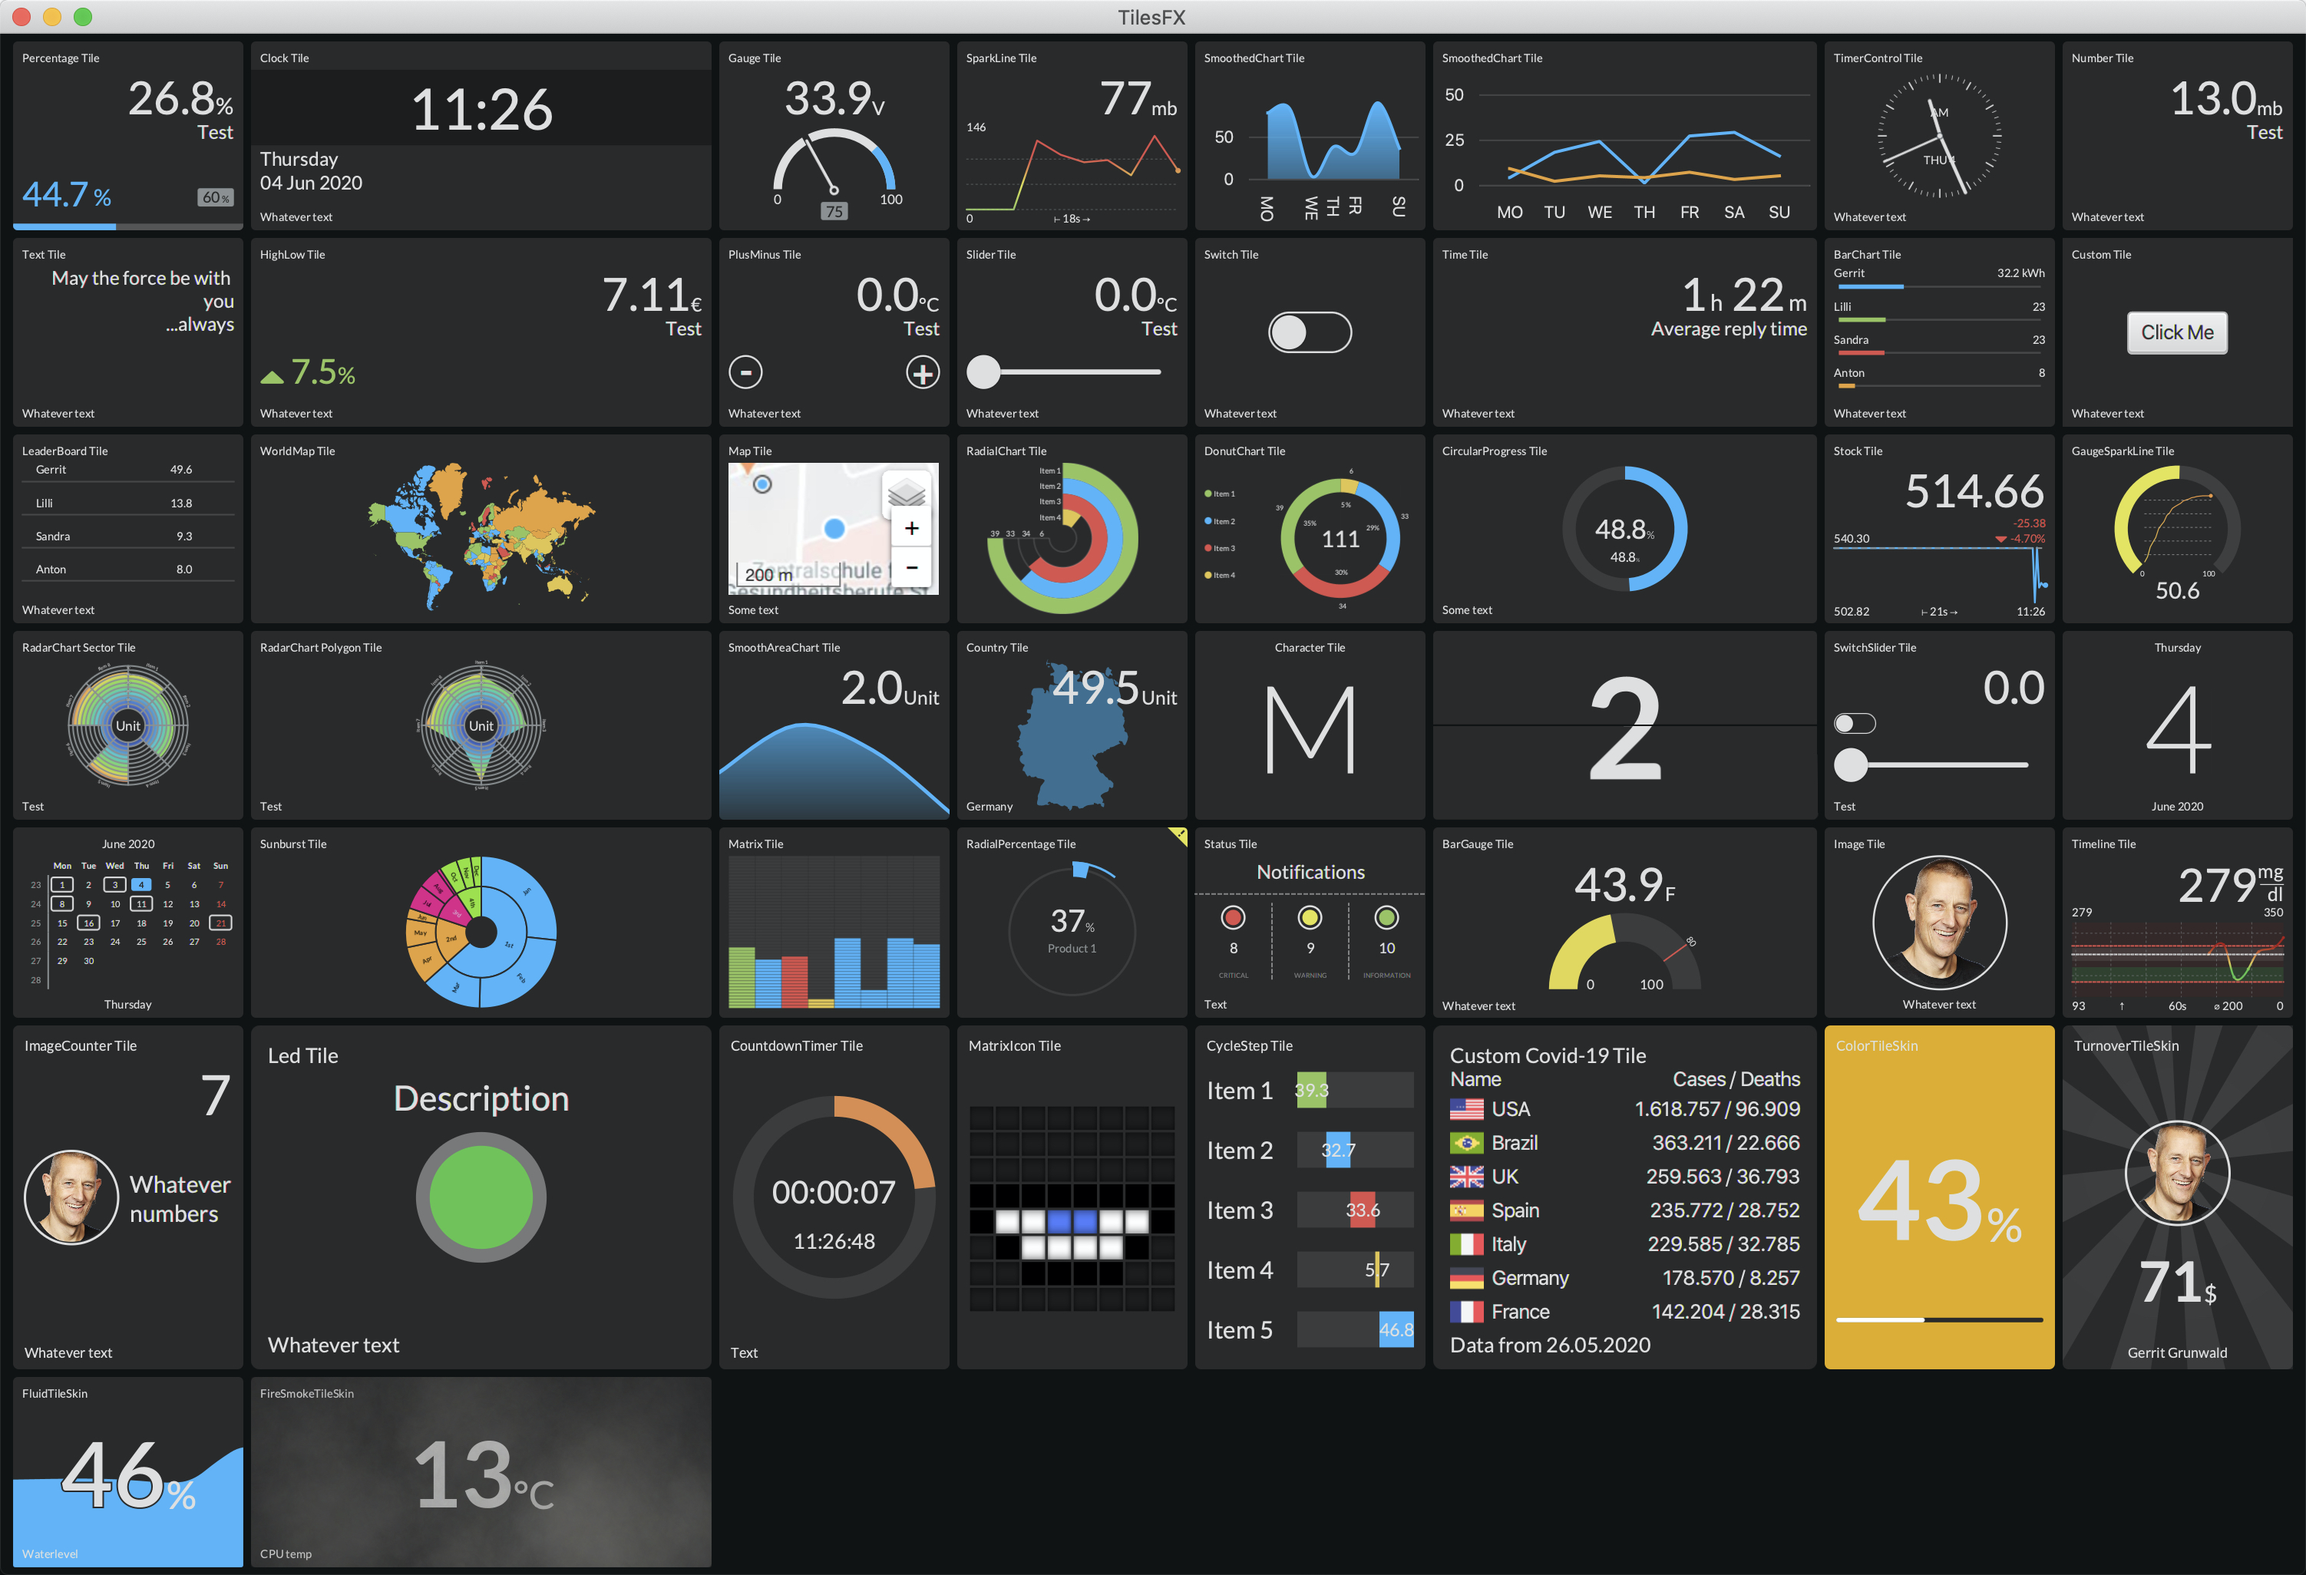
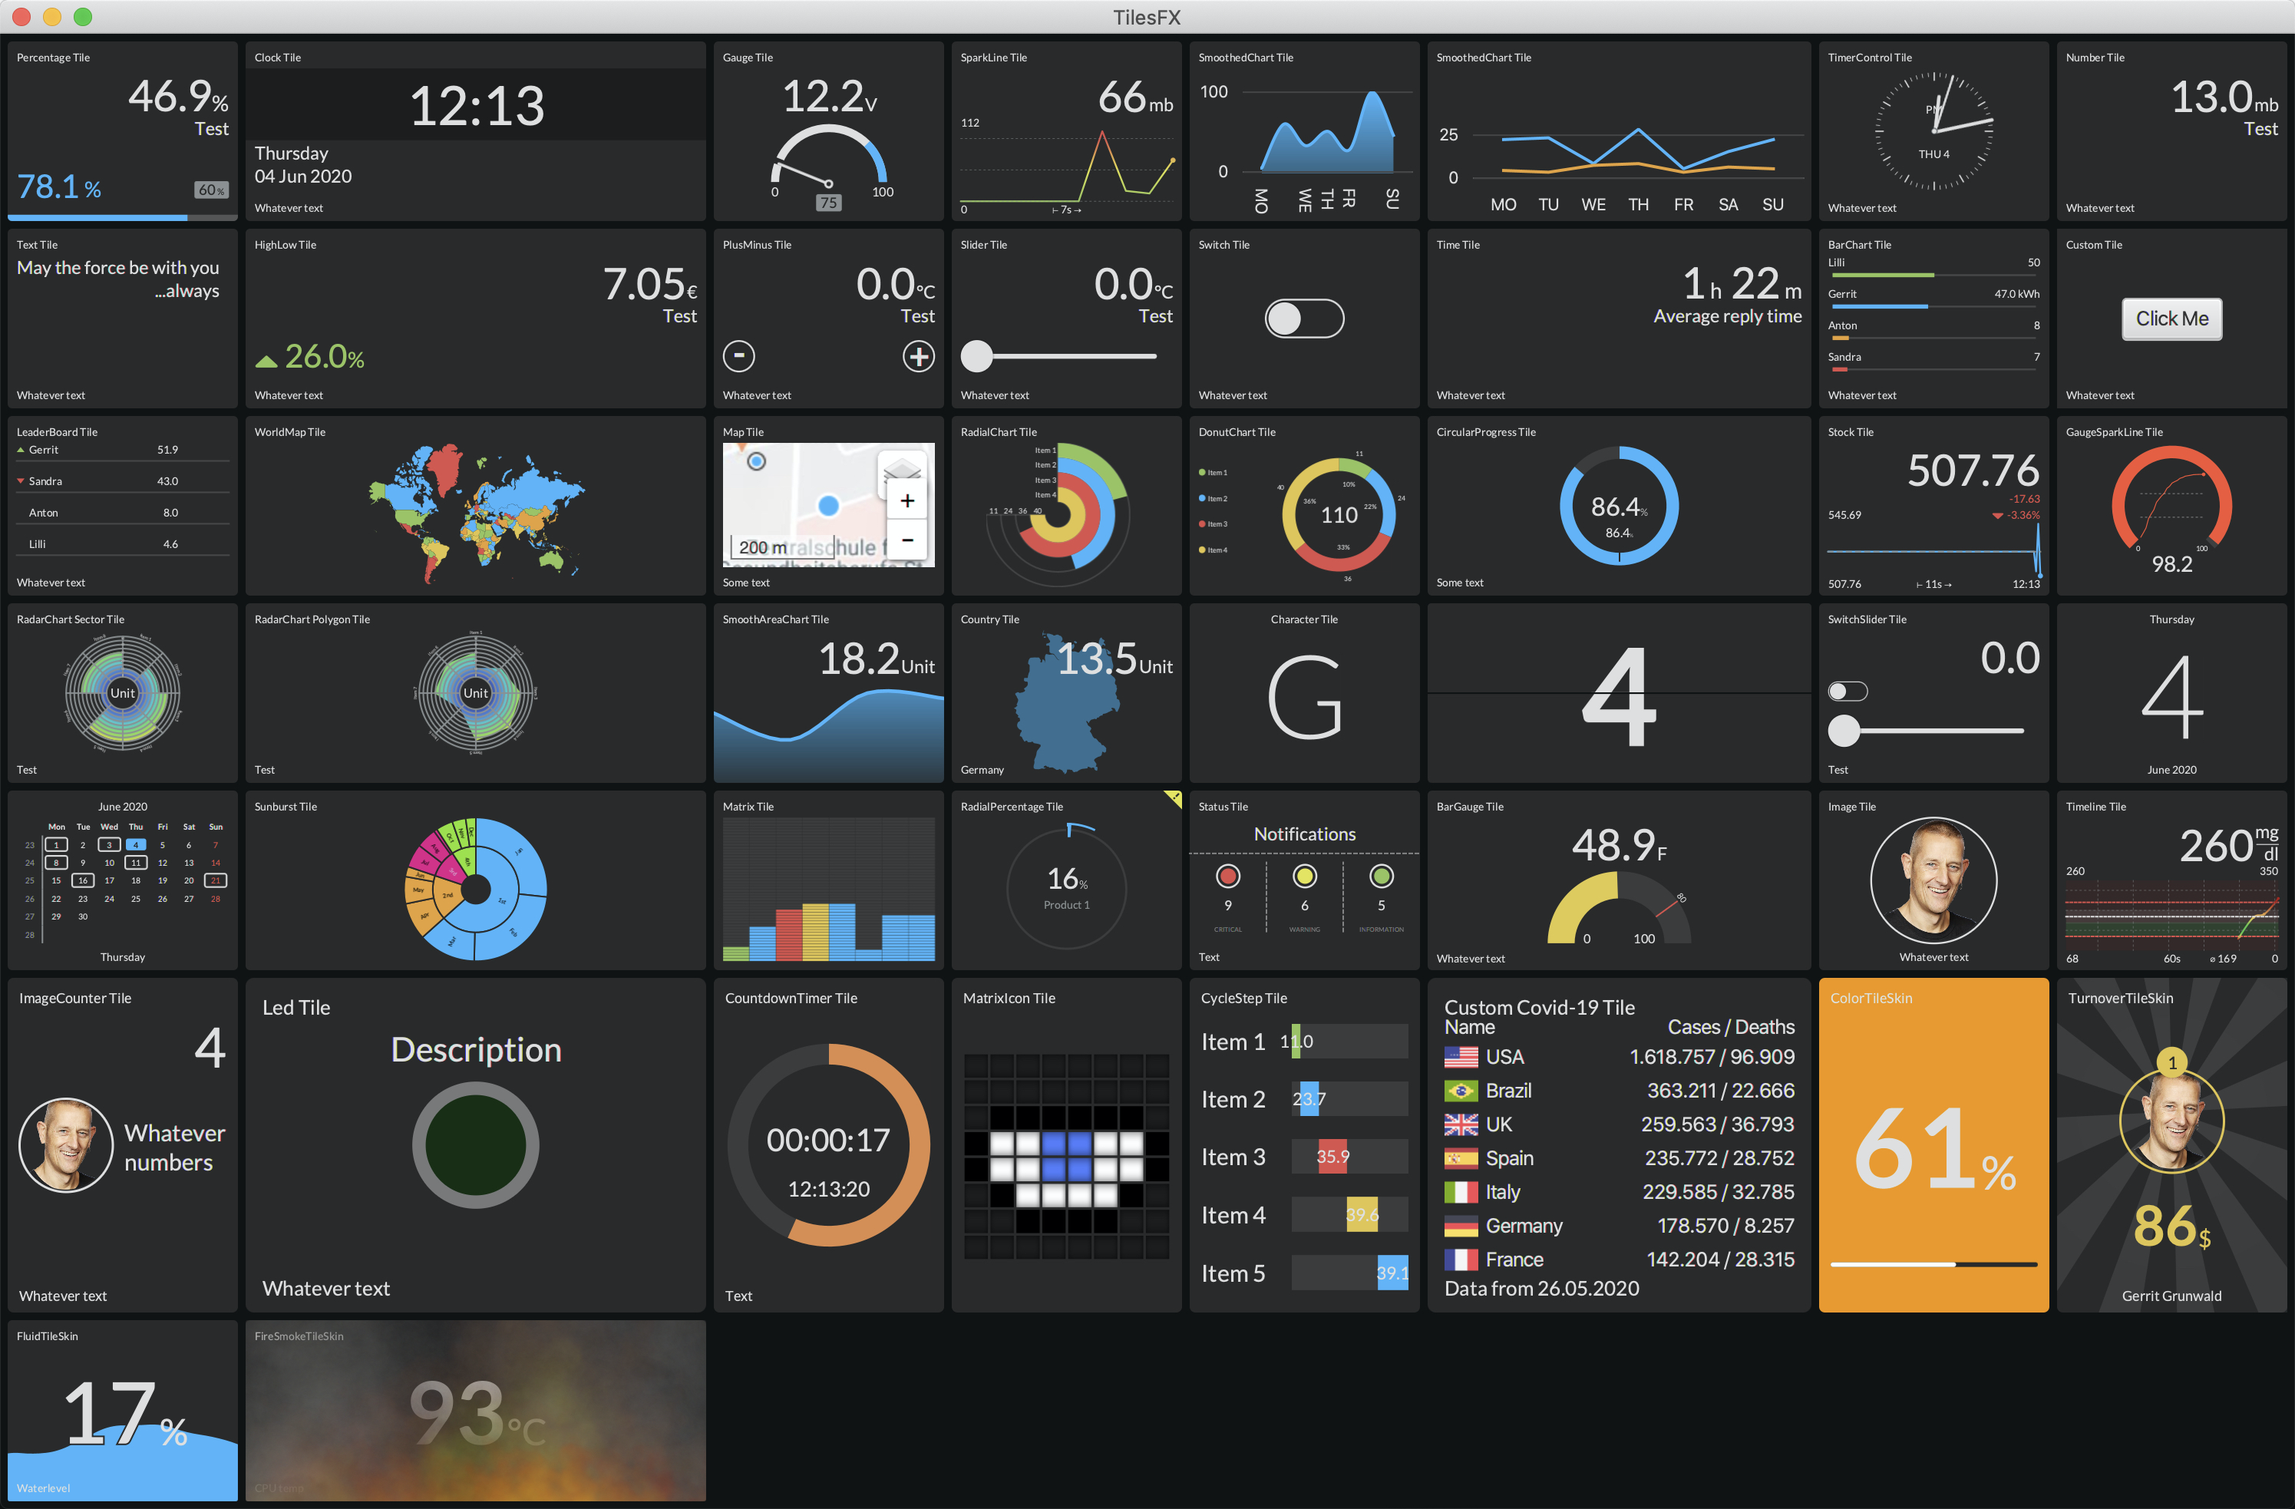
Some minor adjustments

diff --git a/src/main/java/eu/hansolo/tilesfx/Demo.java b/src/main/java/eu/hansolo/tilesfx/Demo.java
@@ -116,6 +116,8 @@ public class Demo extends Application {
     private ChartData       smoothChartData3;
     private ChartData       smoothChartData4;
 
+    private Rank            firstRank;
+
     private Tile            percentageTile;
     private Tile            clockTile;
     private Tile            gaugeTile;
@@ -644,6 +646,8 @@ public class Demo extends Application {
                                          .animated(true)
                                          .build();
 
+        firstRank = new Rank(Ranking.FIRST, Tile.YELLOW_ORANGE);
+
         countryTile = TileBuilder.create().skinType(SkinType.COUNTRY)
                                           .prefSize(TILE_WIDTH, TILE_HEIGHT)
                                           .minValue(0)
@@ -1087,6 +1091,18 @@ public class Demo extends Application {
                                   .unit("$")
                                   .image(new Image(Demo.class.getResourceAsStream("HanSolo.png")))
                                   .animated(true)
+                                  .checkThreshold(true)
+                                  .onTileEvent(e -> {
+                                      if (EventType.THRESHOLD_EXCEEDED == e.getEventType()) {
+                                          turnoverTile.setRank(firstRank);
+                                          turnoverTile.setValueColor(firstRank.getColor());
+                                          turnoverTile.setUnitColor(firstRank.getColor());
+                                      } else if (EventType.THRESHOLD_UNDERRUN == e.getEventType()) {
+                                          turnoverTile.setRank(Rank.DEFAULT);
+                                          turnoverTile.setValueColor(Tile.FOREGROUND);
+                                          turnoverTile.setUnitColor(Tile.FOREGROUND);
+                                      }
+                                  })
                                   .threshold(70) // triggers the rotation effect
                                   .build();
 

diff --git a/src/main/java/eu/hansolo/tilesfx/skins/TurnoverTileSkin.java b/src/main/java/eu/hansolo/tilesfx/skins/TurnoverTileSkin.java
@@ -162,7 +162,6 @@ public class TurnoverTileSkin extends TileSkin {
             valueText.setText(String.format(locale, formatString, VALUE));
         }
         if (VALUE > tile.getThreshold()) {
-            System.out.println(tile.getThreshold());
             rotationEffect.setVisible(true);
             rotationEffect.start();
         } else {
